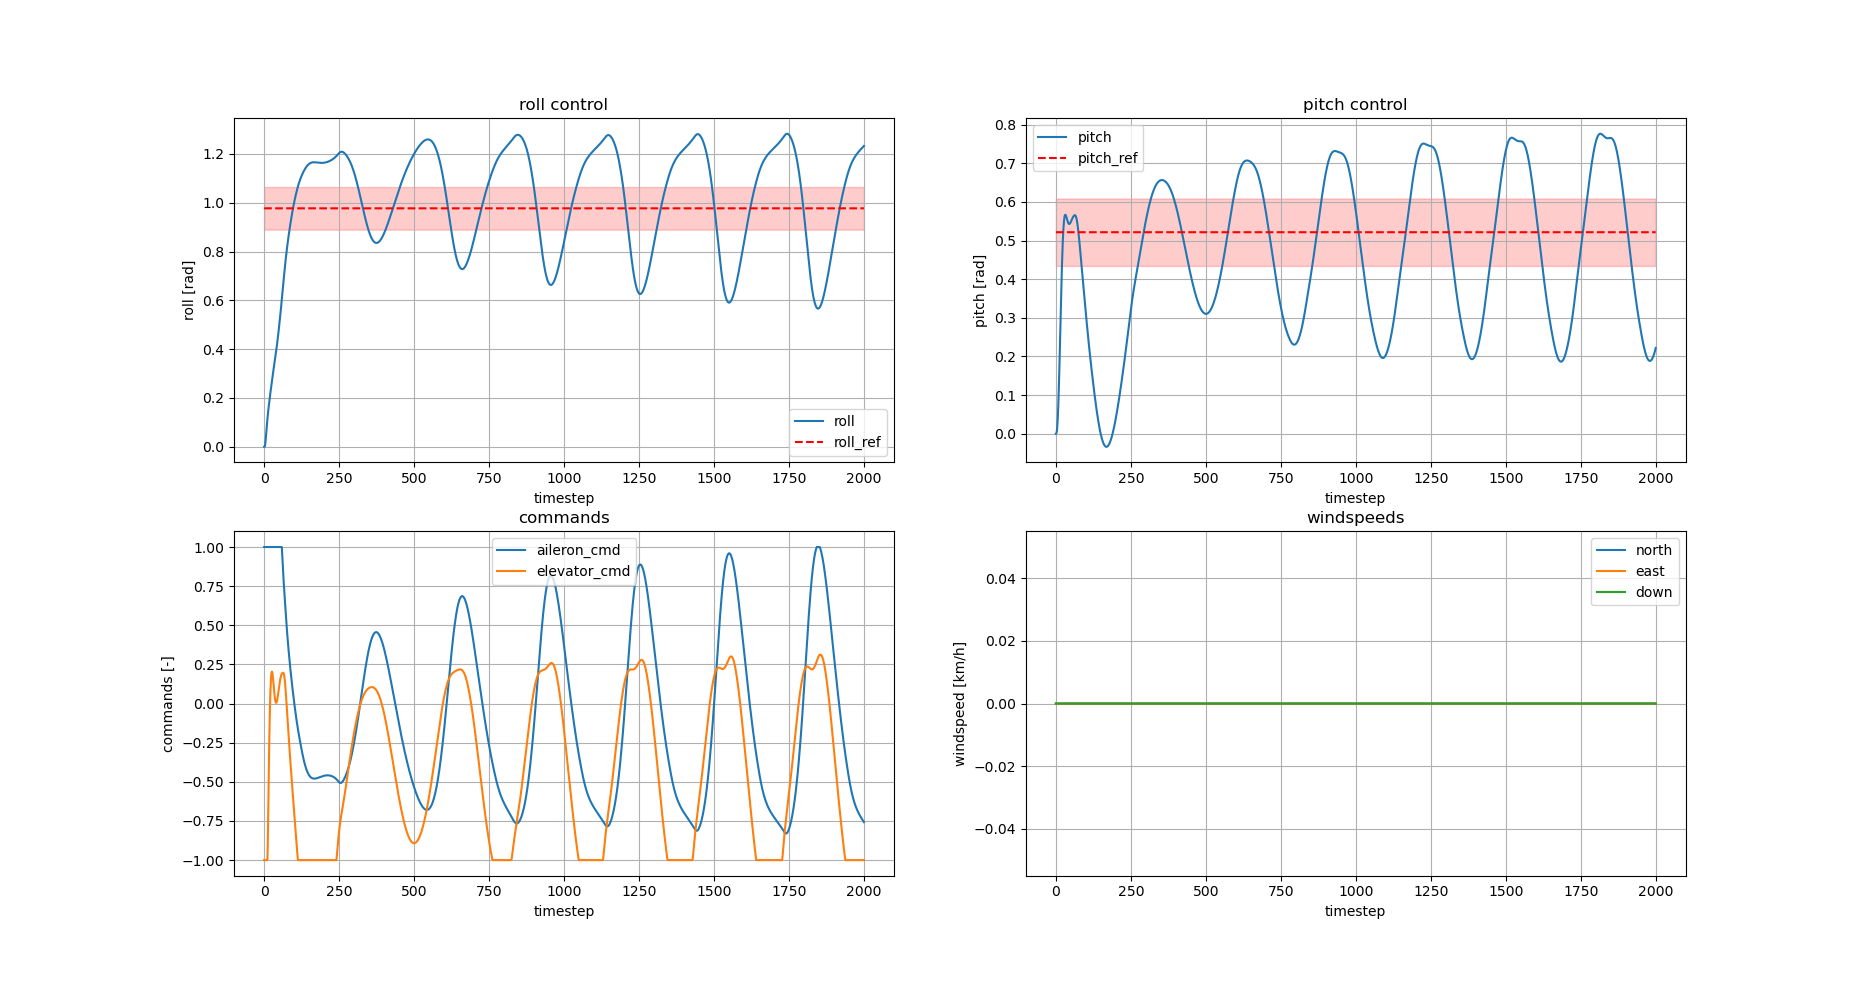
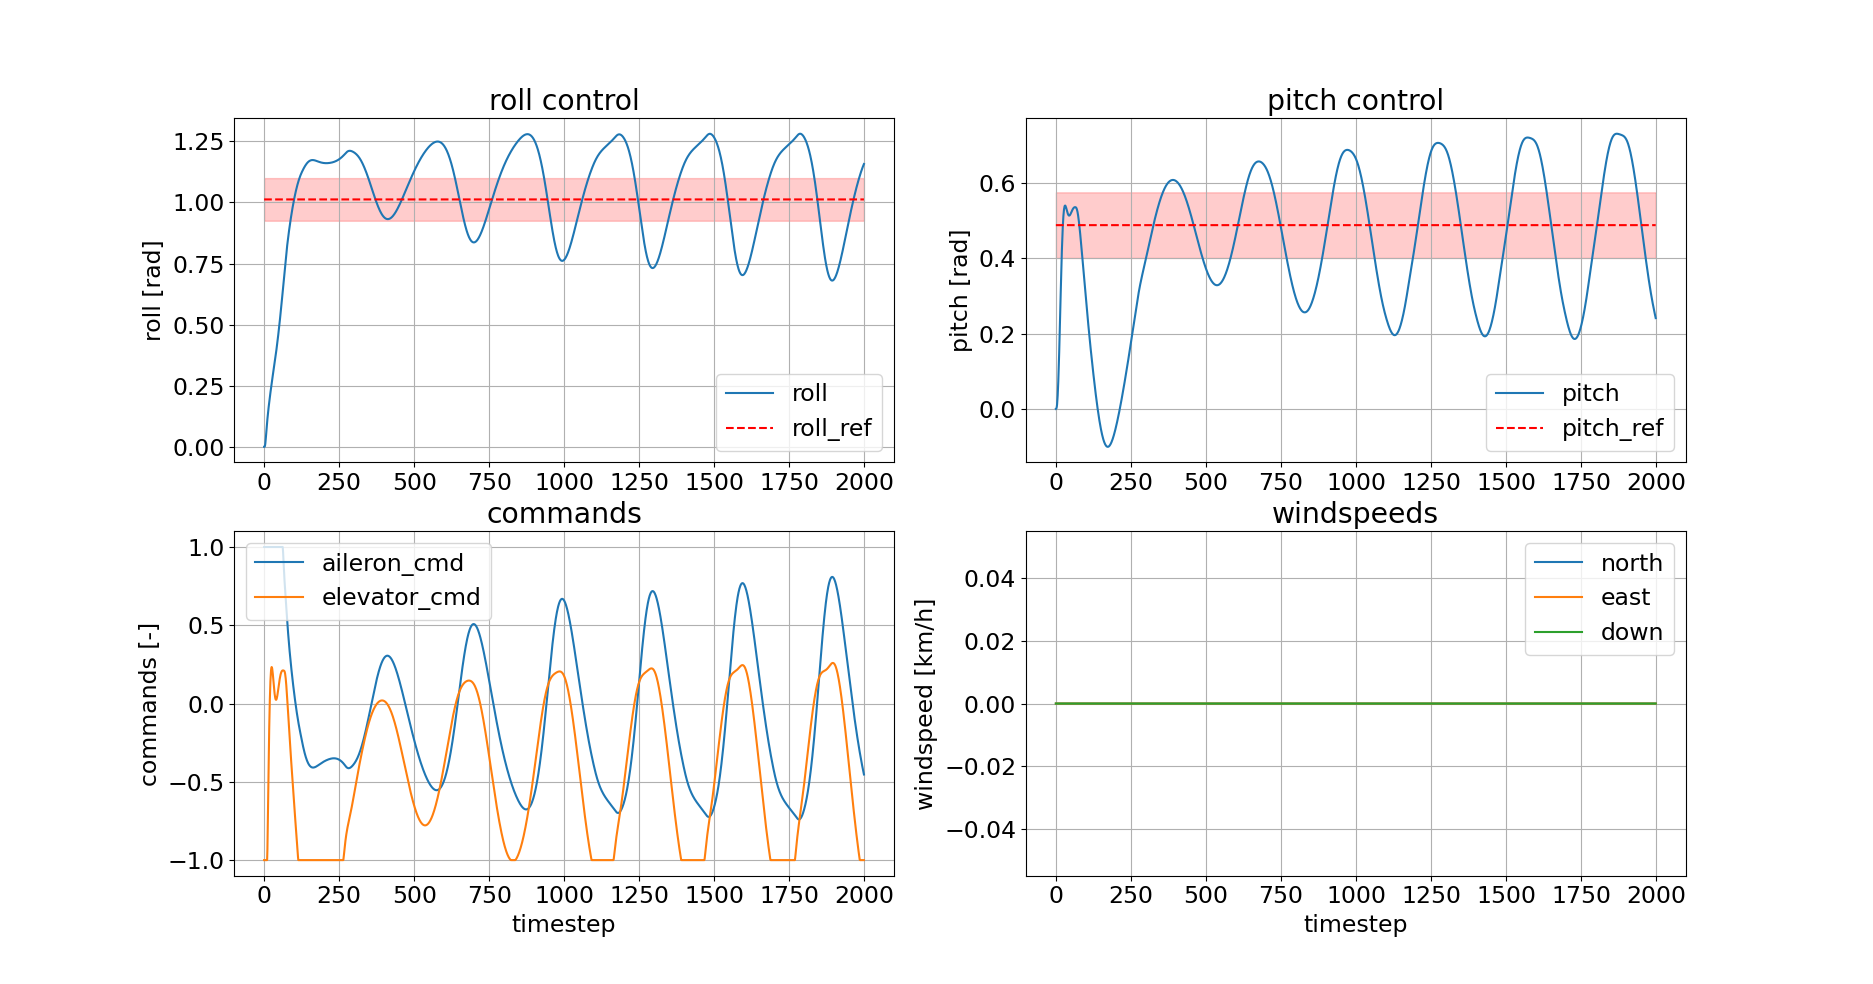
updated and removed stale screenshots

diff --git a/jsbgym/visualizers/snapshot.py b/jsbgym/visualizers/snapshot.py
@@ -16,6 +16,7 @@ parser.add_argument('--tele-file', type=str, required=True, help='Telemetry csv 
 parser.add_argument('--fullscreen', action='store_true', help='True: fullscreen, False: windowed')
 args: Namespace = parser.parse_args()
 
+plt.rcParams.update({'font.size': 17})
 
 fig, axis = plt.subplots(2, 2)
 
@@ -76,7 +77,7 @@ axis[0, 0].plot(tsteps, roll, label='roll' if not np.isnan(np.sum(roll)) else ''
 axis[0, 0].plot(tsteps, roll_ref, color='r', linestyle='--', label='roll_ref' if not np.isnan(np.sum(roll_ref)) else '')
 axis[0, 0].fill_between(tsteps, roll_ref - np.deg2rad(5), roll_ref + np.deg2rad(5), color='r', alpha=0.2)
 axis[0, 0].set_title('roll control')
-axis[0, 0].set_xlabel("timestep")
+# axis[0, 0].set_xlabel("timestep")
 axis[0, 0].set_ylabel("roll [rad]")
 axis[0, 0].legend()
 axis[0, 0].grid()
@@ -85,7 +86,7 @@ axis[0, 1].plot(tsteps, pitch, label='pitch' if not np.isnan(np.sum(pitch)) else
 axis[0, 1].plot(tsteps, pitch_ref, color='r', linestyle='--', label='pitch_ref' if not np.isnan(np.sum(pitch_ref)) else '')
 axis[0, 1].fill_between(tsteps, pitch_ref - np.deg2rad(5), pitch_ref + np.deg2rad(5), color='r', alpha=0.2)
 axis[0, 1].set_title('pitch control')
-axis[0, 1].set_xlabel("timestep")
+# axis[0, 1].set_xlabel("timestep")
 axis[0, 1].set_ylabel("pitch [rad]")
 axis[0, 1].legend()
 axis[0, 1].grid()
